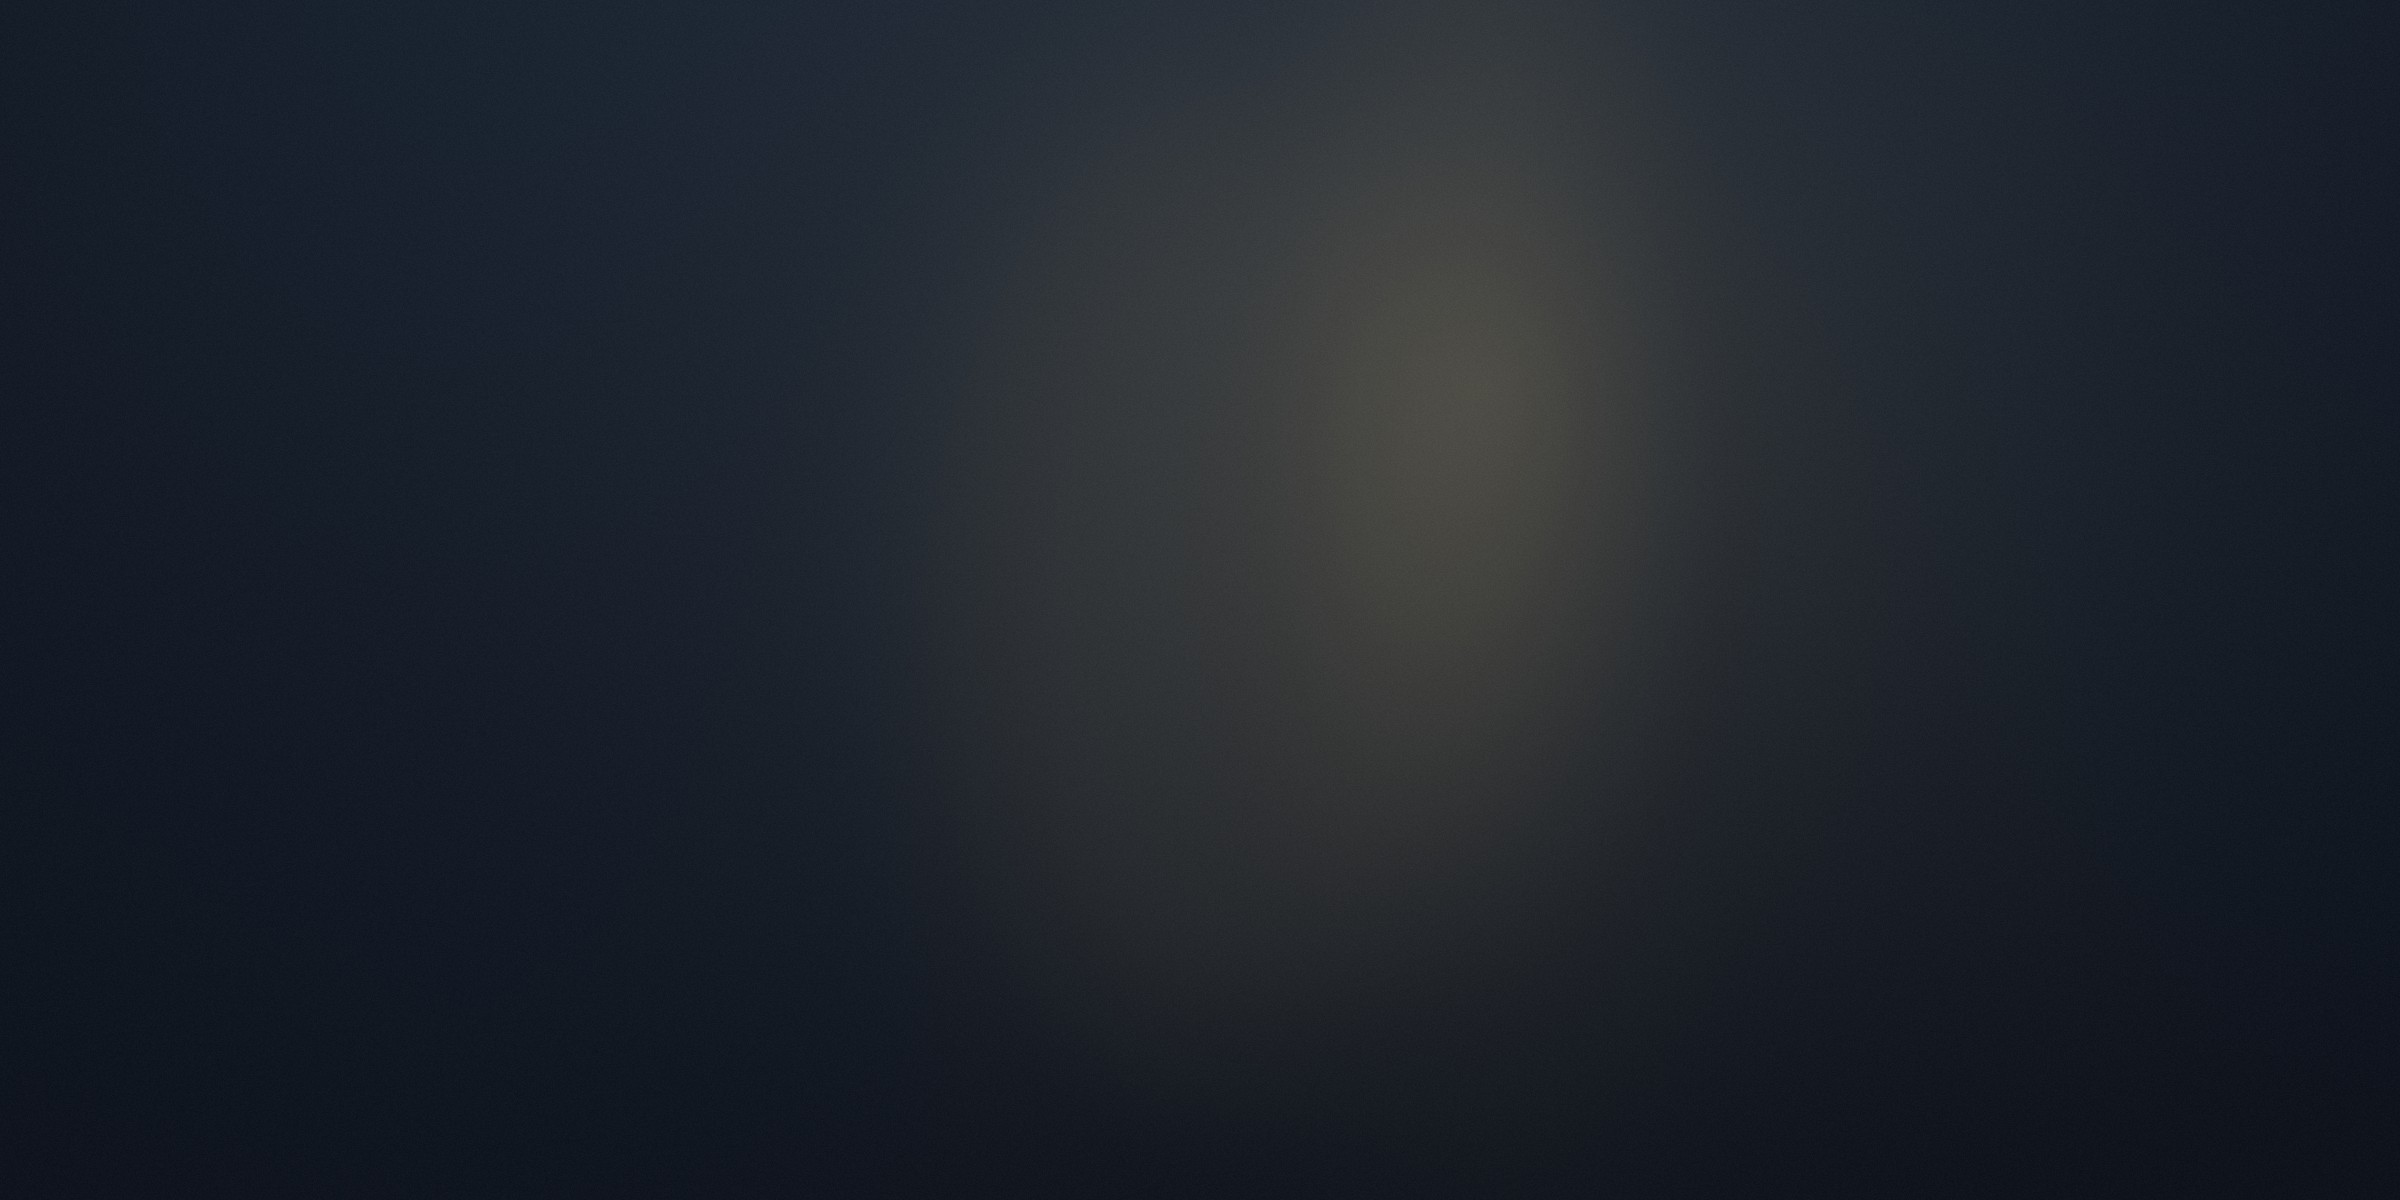
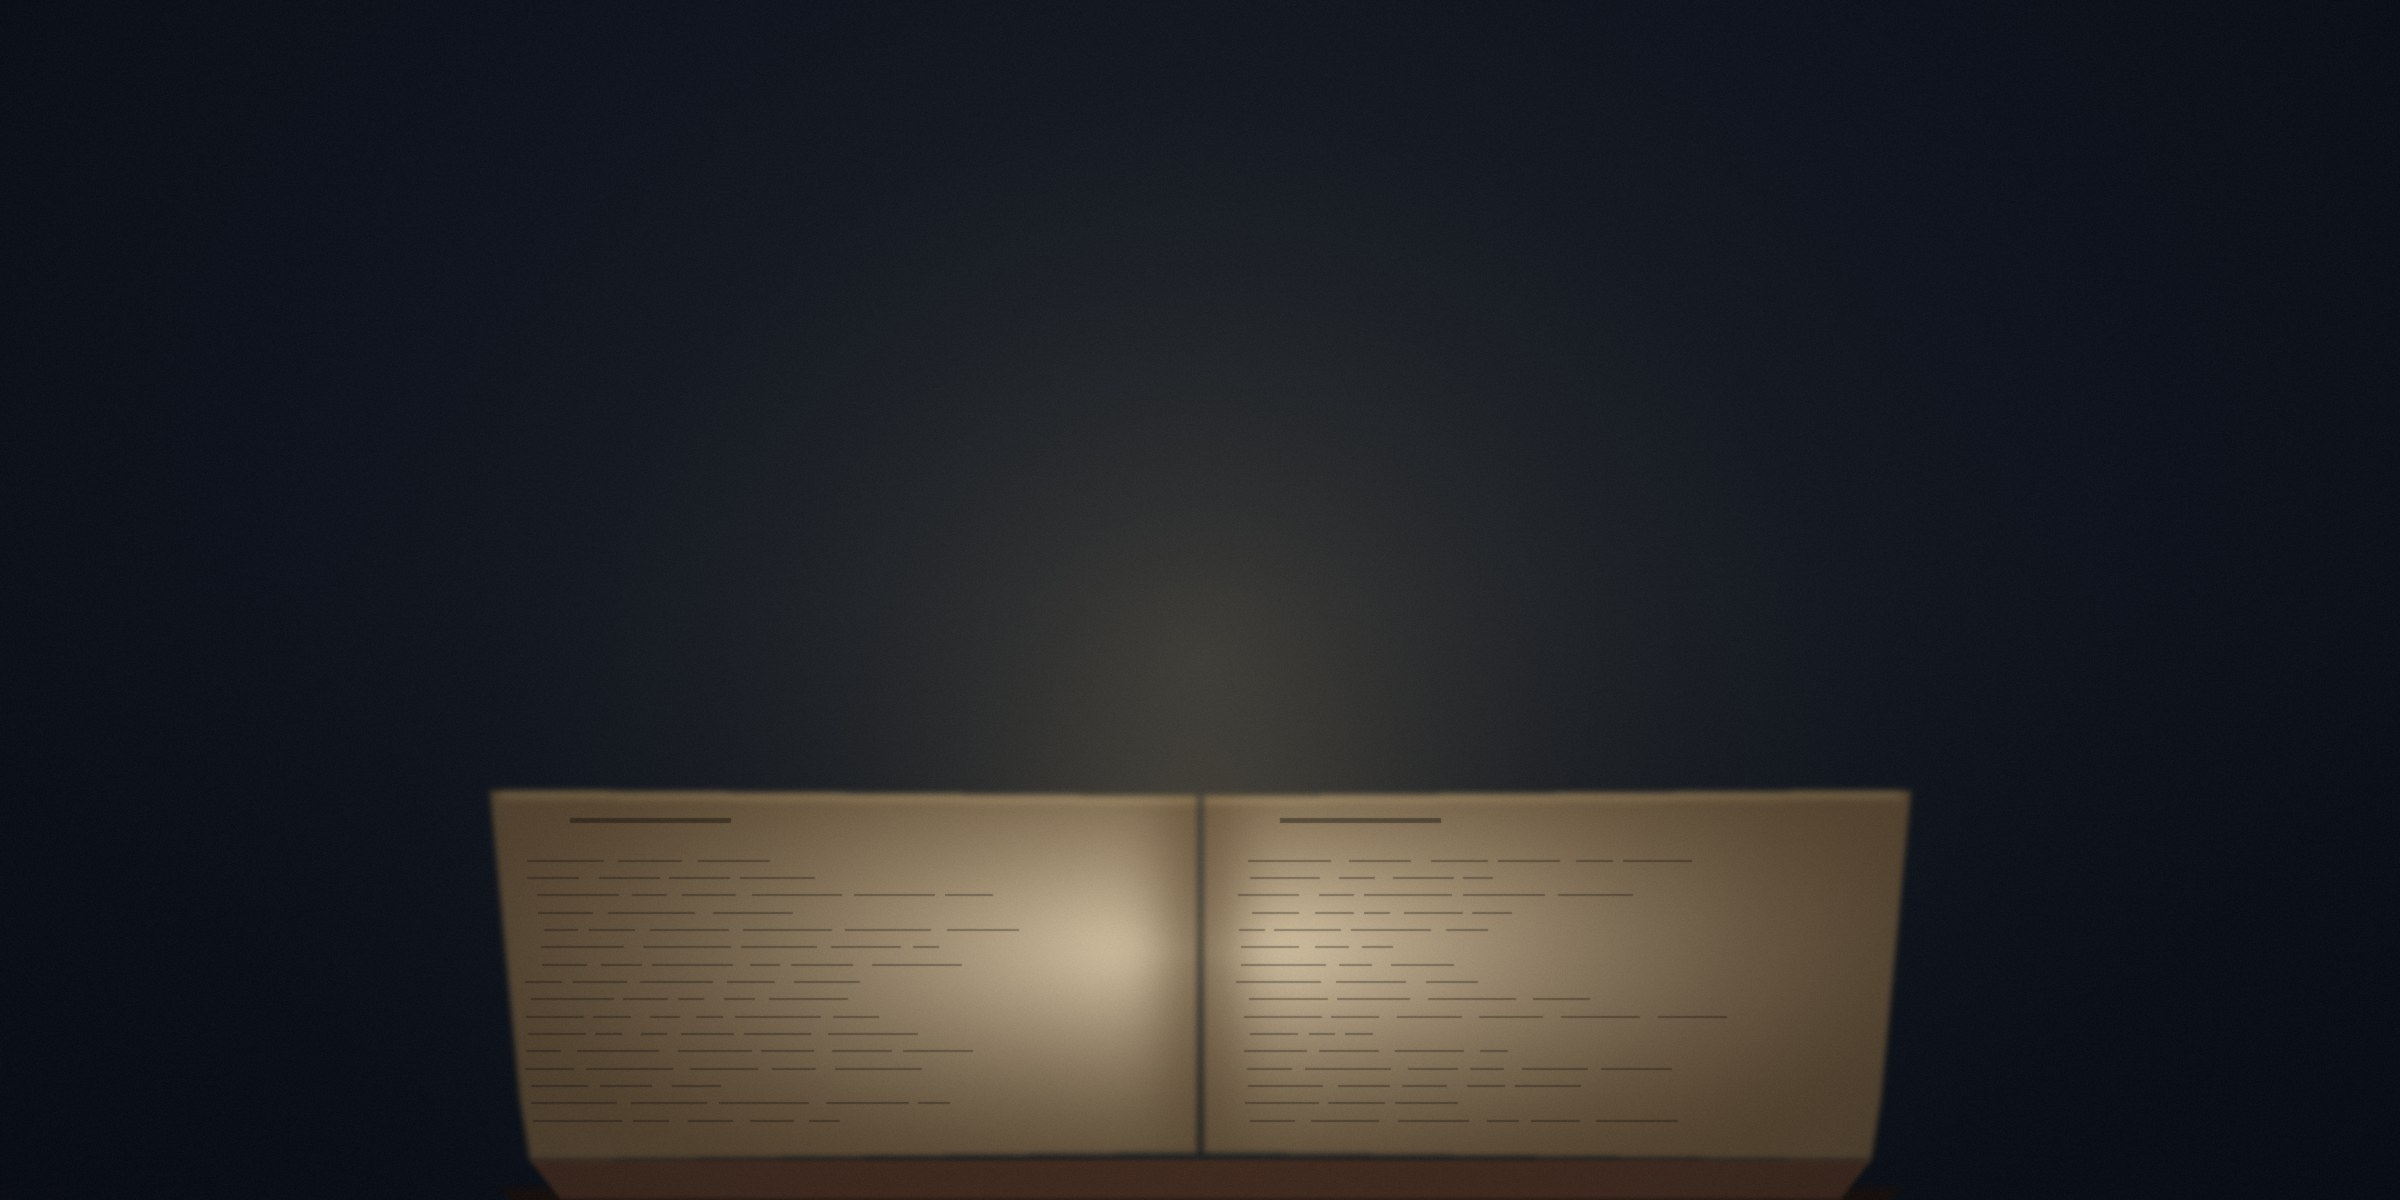
배경변경

diff --git a/app/about/page.js b/app/about/page.js
@@ -106,6 +106,15 @@ export default function AboutPage() {
 
             <div>
               <h4 className="font-display font-bold text-lg text-primary-900 mb-3">
+                🎓 강의 활동
+              </h4>
+              <ul className="text-primary-800 leading-relaxed space-y-1 text-sm md:text-base">
+                <li>• 총신대학교 목회신학전문대학원 겸임교수</li>
+              </ul>
+            </div>
+
+            <div>
+              <h4 className="font-display font-bold text-lg text-primary-900 mb-3">
                 ⛪ 목회 경력
               </h4>
               <p className="text-primary-800 leading-relaxed text-sm md:text-base">
